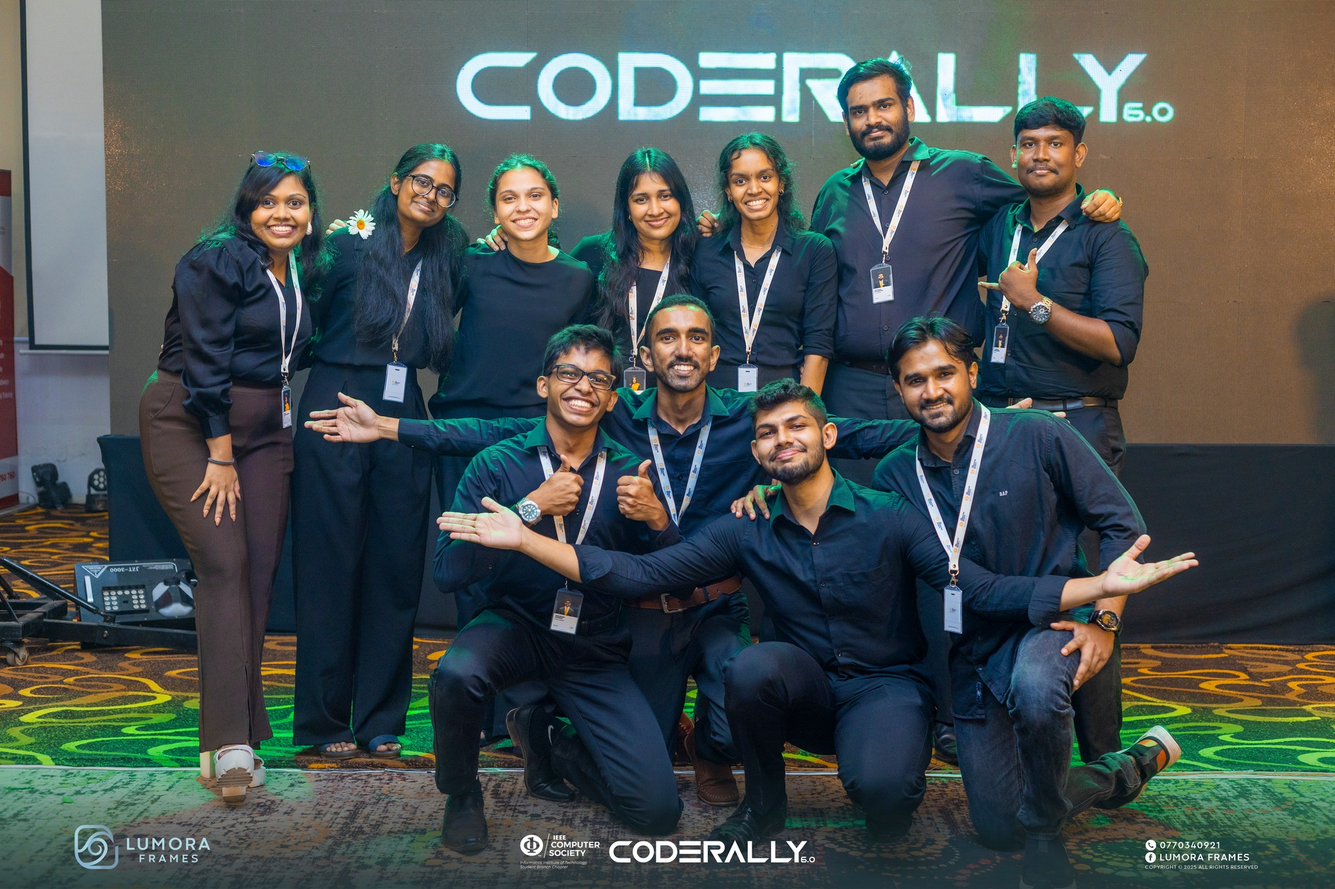
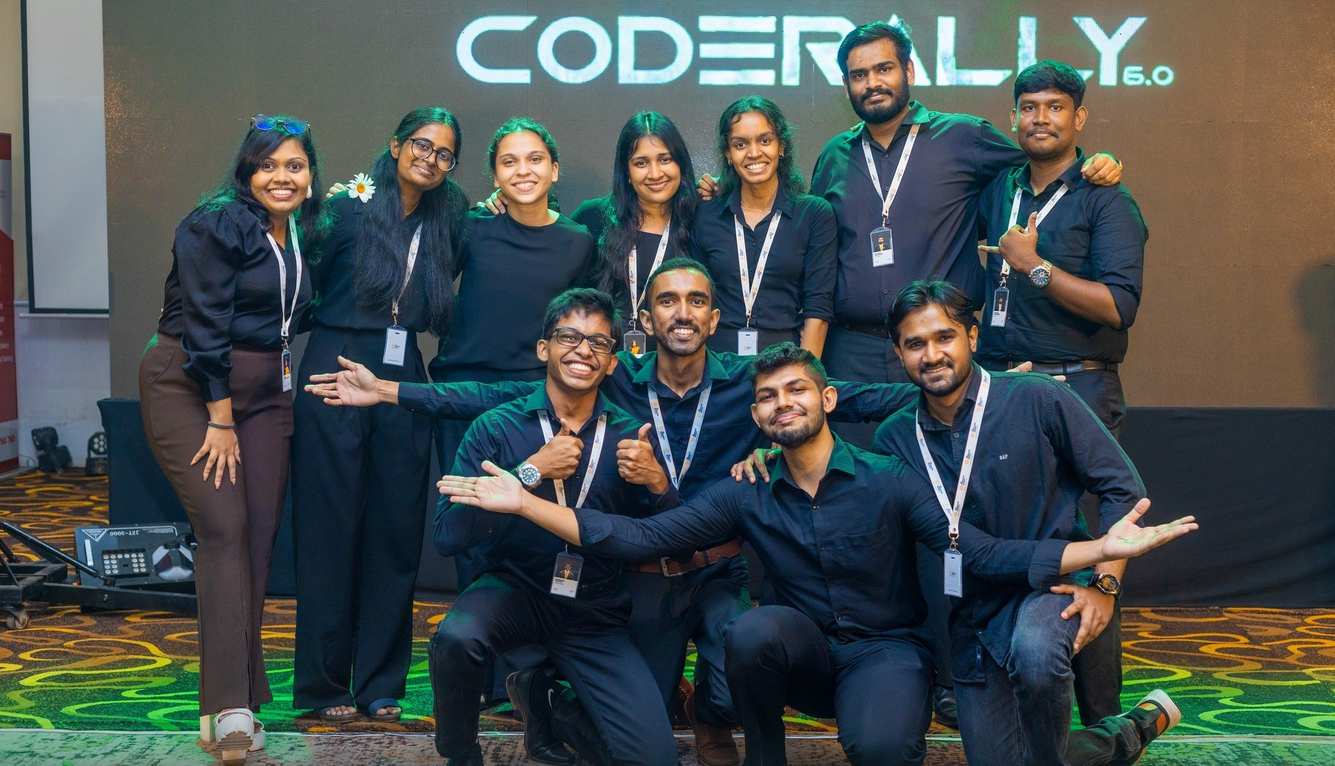
fixed the images angle and the size of it

diff --git a/events-section.html b/events-section.html
@@ -6,7 +6,7 @@
             href="stackmedium.html"
             class="work-item w-inline-block"
         >
-            <div class="work-img-wrapp"><img src="" alt="StackMedium" class="work-img" /></div>
+            <div class="work-img-wrapp"><img src="images\stackmedium\stackmedium-1.jpg" alt="StackMedium" class="work-img" /></div>
             <h4 class="heading">Stack Medium</h4>
             <div class="work-category">Article Writing</div>
         </a>
@@ -30,7 +30,7 @@
             href="coderally6-0.html"
             class="work-item w-inline-block"
         >
-            <div class="work-img-wrapp"><img src="images\coderally6-0\coderally6.0-3.jpg" alt="CodeRally6" class="work-img" /></div>
+            <div class="work-img-wrapp"><img src="images\coderally6-0\coderally6.0-2.jpg" alt="CodeRally6" class="work-img" /></div>
             <h4 class="heading">CodeRally 6.0</h4>
             <div class="work-category">Coding & Hackathon</div>
         </a>
